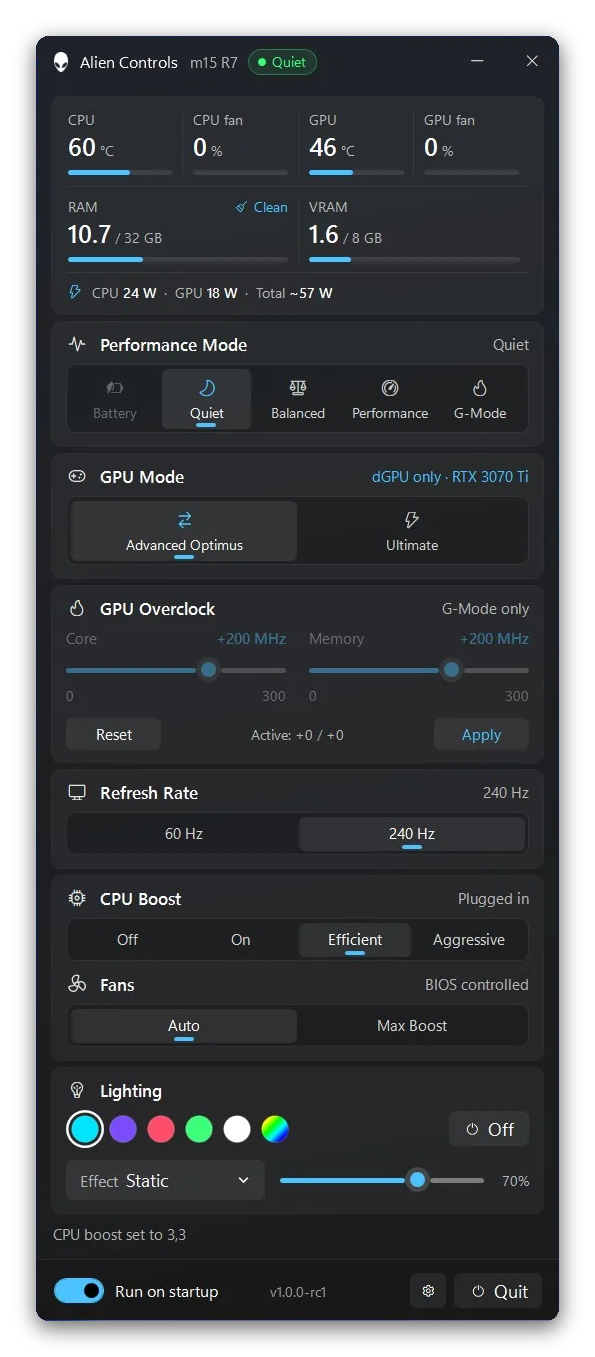
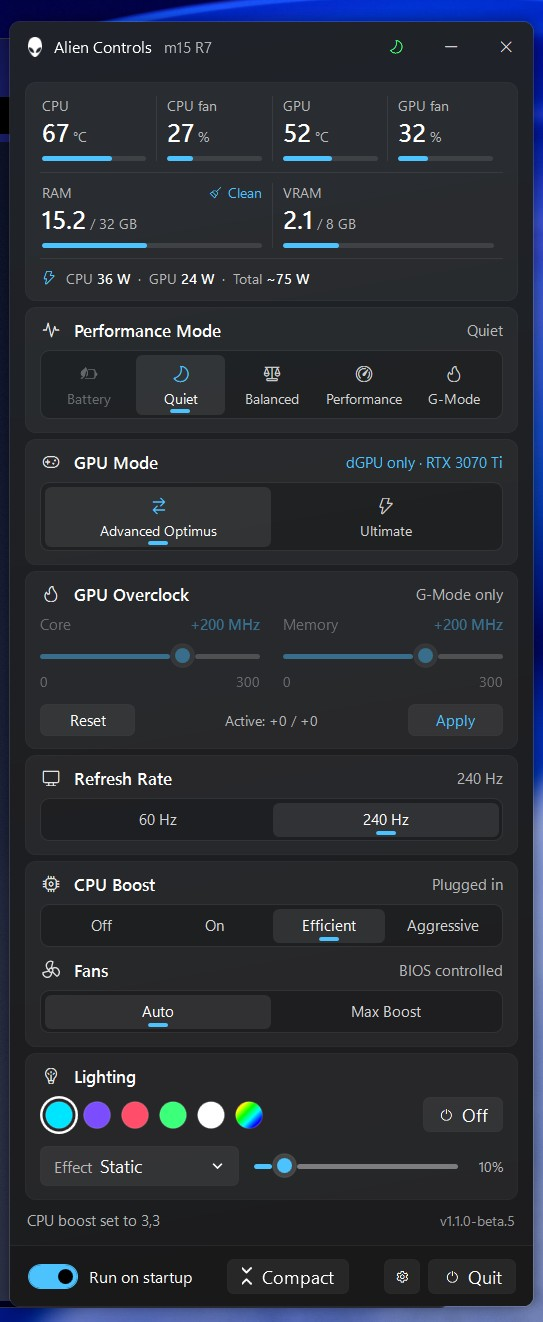
Docs: 1.1 screenshots (compact, full, preset list, settings), README/DEVELOPMENT/DECISIONS/HARDWARE updates

diff --git a/docs/DEVELOPMENT.md b/docs/DEVELOPMENT.md
@@ -23,10 +23,13 @@ Needs the .NET 8 SDK on Windows (or `EnableWindowsTargeting` to compile-check on
 | File | Role |
 |---|---|
 | `App.xaml(.cs)` | tray icon, theme loading (`ApplyTheme`), accent (`ApplyAccent`), single window |
-| `MainWindow.xaml(.cs)` | the card UI, sensor loop (only while visible), hints, profile chip, gear flyout |
+| `MainWindow.xaml(.cs)` | the card UI, sensor loop (only while visible), hints, preset button, gear flyout |
+| `MainWindow.Compact.cs` | v1.1 compact / full view (`SetCompact`), footer view button, keeps the corner anchored on resize |
+| `MainWindow.Presets.cs` | v1.1 header preset button and its preset list popup |
+| `Services/AwccSensors.cs` | v1.1 direct WMI temps and fan RPM (`AWCCWmiMethodFunction.Thermal_Information`), CLI fallback in `AlienFan` |
 | `Motion.cs` | all animations (v0.8.2, values and spline curves updated in v0.8.6), disabled by Reduce motion. The window slide is native since v0.8.8: `MainWindow.xaml.cs` (`PrepareShow` / `PlayOpen` / `HideToTray`) drives `Services/WindowSlide.cs` |
 | `Services/WindowSlide.cs` | v0.8.8 native window slide: `SetWindowPos` per frame (Rendering + 15 ms backup timer, only while sliding), cubic-bezier curves |
-| `Themes/Legend.xaml`, `Themes/Fluent.xaml` | **generated** by `dev/gen_themes.py`; same keys in both. Edit the generator, never the XAML |
+| `Themes/Legend.xaml`, `Themes/Fluent.xaml` | **generated** by `dev/gen_themes.py`; same keys in both. Edit the generator (keep any hand edit to the XAML mirrored there) |
 | `Services/CliRunner.cs` | runs the T-Troll CLIs hidden and captures output |
 | `Services/AlienFan.cs` | power modes, G-Mode, CPU boost, fans, temps (parses raw `getpower` hex) |
 | `Services/AlienFx.cs` | chassis lighting through the CLI; filters the power button (ID 2) |

diff --git a/README.md b/README.md
@@ -50,9 +50,23 @@ Command Center, whose background services keep *WMI Provider Host* busy.
 
 ## Screenshots
 
-| Legend theme | Fluent theme |
+### Compact view (tray, F3)
+
+| Legend | Fluent |
 |---|---|
-| ![Legend theme](docs/screenshots/legend.png) | ![Fluent theme](docs/screenshots/fluent.png) |
+| ![Compact view, Legend](docs/screenshots/compact-legend.png) | ![Compact view, Fluent](docs/screenshots/compact-fluent.png) |
+
+### Full menu (F4 or the Full menu button)
+
+| Legend | Fluent |
+|---|---|
+| ![Full menu, Legend](docs/screenshots/legend.png) | ![Full menu, Fluent](docs/screenshots/fluent.png) |
+
+### Preset button and settings
+
+| Preset list (header button) | Gear menu |
+|---|---|
+| ![Preset list](docs/screenshots/preset-menu.png) | ![Settings](docs/screenshots/settings.png) |
 
 ### Notifications (F1, F2, plug / unplug)
 
@@ -216,7 +230,7 @@ Two themes, switched in the gear menu (saved in settings, default **Legend**):
 - **Legend**: Alienware-style terminal look, mono numbers and icon section headers, tick bars, cyan accent.
 - **Fluent**: Windows 11 cards, segmented controls and rounded bars.
 
-Each theme is its own ResourceDictionary (`Themes/Legend.xaml`, `Themes/Fluent.xaml`); only the active one is loaded. No blur or Mica, and the app idles at ~0% CPU.
+Each theme is its own ResourceDictionary (`Themes/Legend.xaml`, `Themes/Fluent.xaml`); only the active one is loaded. No blur or Mica (a native Acrylic backdrop was tried in 1.1.0-beta.2 and dropped: it cost CPU and RAM for little gain), and the app idles at ~0% CPU.
 The accent follows the lighting color.
 
 Since v0.8.2 there are a few subtle, one-shot animations: since v0.8.6 the window slides up out of the bottom edge when shown

diff --git a/docs/DECISIONS.md b/docs/DECISIONS.md
@@ -84,3 +84,16 @@ Why things are the way they are. Newest decisions win.
 - Safety: 20 s keep-or-revert after Apply, "pending" flag saved before the write so a crash comes back at +0.
   No stress test, no voltage curve, power limit or fan control. Profiles never change GPU mode.
 - Layout (Amine): Core and Memory side by side, Keep / Revert replace the button row, to keep the window short.
+
+## 1.1 (2026-10-16)
+- Sensors: temps and fan RPM read straight from `AWCCWmiMethodFunction.Thermal_Information` (73 ms vs 181 ms for the CLI
+  for four reads). alienfan-cli stays for every command and as the fallback after an init failure or three errors.
+- Fluent Acrylic (Quick Settings blur) was built in beta.2 and **dropped** (Amine): it didn't look good enough and cost CPU and
+  RAM. Not planned anymore.
+- Compact view: the tray and F3 **always** open compact (no remembering the last view); F4 opens the full menu. The key for the
+  view already shown hides it, the other key switches. Compact = header, sensors, power, performance mode, lighting colors + Off
+  (no GPU mode). The version moved next to the status line so the footer center holds the Full menu / Compact button.
+- Show in taskbar toggle, default on. Off = tray only; minimize then hides to the tray.
+- The read-only header chip became a preset button (both themes): icon + color of the active preset, click for the list
+  Battery, Quiet, Balanced, Performance, Custom.
+- No rc for 1.1: each beta was confirmed on the laptop before the next one.

diff --git a/docs/HARDWARE.md b/docs/HARDWARE.md
@@ -155,5 +155,5 @@ CPU-Z Stress CPU (all 20 threads), read in HWiNFO, on AC. ThrottleStop closed (w
 ## Macro keys (F2..F6 media mode = Macro A..E)
 Probe `dev/hid-probe.ps1` (Raw Input, 2026-10-15). Not seen by the LL keyboard hook. They arrive on the
 keyboard's consumer collection **0D62:CABC, usage page 0x0C, usage 0x01**, report ID 0x02:
-- F2 press `02-51-00`, F3 `02-52-00`, F4 `02-53-00` (F5/F6 likely 0x54/0x55, unverified); release `02-00-00`.
+- F2 press `02-51-00`, F3 `02-52-00`, F4 `02-53-00` (F4 used for the full menu since v1.1, confirmed) (F5/F6 likely 0x54/0x55, unverified); release `02-00-00`.
 - Readable with RegisterRawInputDevices (RIDEV_INPUTSINK), no admin, no polling. Windows does nothing with them by default.
